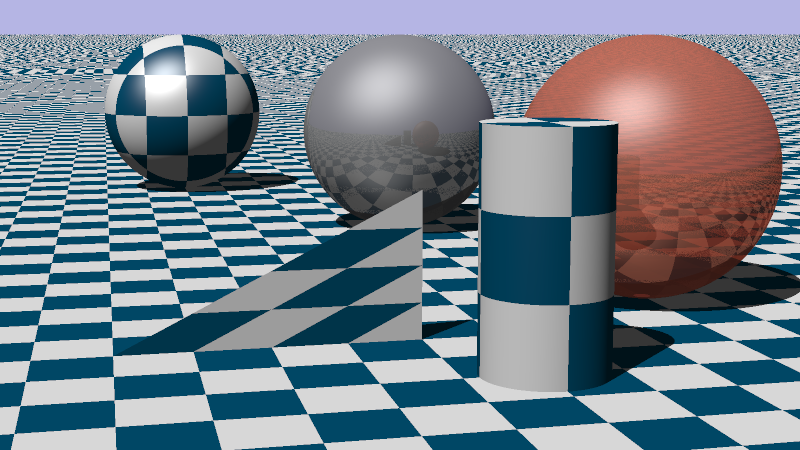
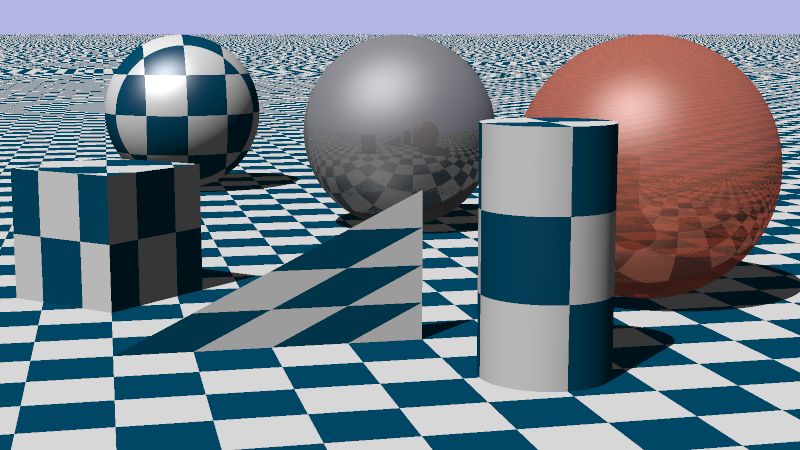
Add cuboids

Changed region(s): [[0.0, 0.3422, 0.3125, 0.7156]]

diff --git a/src/geometry/cuboid.cpp b/src/geometry/cuboid.cpp
@@ -1,0 +1,111 @@
+#include "geometry/cuboid.h"
+#include <algorithm>
+#include <cmath>
+#include <limits>
+
+Cuboid::Cuboid(Point3 center, Vec3 u, Vec3 v,
+               double width, double height, double depth,
+               std::shared_ptr<Material> mat)
+    : center(center)
+    , half_w(width  / 2.0)
+    , half_h(height / 2.0)
+    , half_d(depth  / 2.0)
+    , mat(std::move(mat))
+{
+    u_axis = unit_vector(u);
+    w_axis = unit_vector(cross(u_axis, v));   // perpendicular to both
+    v_axis = cross(w_axis, u_axis);           // recomputed to guarantee orthogonality
+}
+
+bool Cuboid::hit(const Ray& r, double t_min, double t_max, HitRecord& rec) const {
+    // Project ray into the cuboid's local frame.
+    Vec3 oc = r.origin() - center;
+    double ox = dot(oc, u_axis), oy = dot(oc, v_axis), oz = dot(oc, w_axis);
+    double dx = dot(r.direction(), u_axis);
+    double dy = dot(r.direction(), v_axis);
+    double dz = dot(r.direction(), w_axis);
+
+    const double inf = std::numeric_limits<double>::infinity();
+
+    // Per-axis slab intervals and the axis index that produced t_near / t_far.
+    double t_near = -inf, t_far = inf;
+    int    near_axis = 0, far_axis = 0;
+
+    auto process_axis = [&](double o, double d, double half, int axis) -> bool {
+        if (std::abs(d) < 1e-10) {
+            // Ray parallel to slab — check if origin is inside.
+            if (std::abs(o) > half) return false;
+        } else {
+            double inv = 1.0 / d;
+            double t1  = (-half - o) * inv;
+            double t2  = ( half - o) * inv;
+            if (t1 > t2) std::swap(t1, t2);
+
+            if (t1 > t_near) { t_near = t1; near_axis = axis; }
+            if (t2 < t_far)  { t_far  = t2; far_axis  = axis; }
+
+            if (t_far < t_near) return false;
+        }
+        return true;
+    };
+
+    if (!process_axis(ox, dx, half_w, 0)) return false;
+    if (!process_axis(oy, dy, half_h, 1)) return false;
+    if (!process_axis(oz, dz, half_d, 2)) return false;
+
+    // Pick the first t inside [t_min, t_max].
+    double t;
+    int    hit_axis;
+    bool   entering;   // true → hit near face, false → hit far face (ray starts inside)
+    if (t_near >= t_min && t_near <= t_max) {
+        t = t_near; hit_axis = near_axis; entering = true;
+    } else if (t_far >= t_min && t_far <= t_max) {
+        t = t_far;  hit_axis = far_axis;  entering = false;
+    } else {
+        return false;
+    }
+
+    // Outward normal: for a near-face hit the ray travels in the +d direction,
+    // so the outward normal points opposite to d.  For a far-face hit it is the
+    // same side as d (ray exits through the face it faces).
+    const Vec3 axes[3] = { u_axis, v_axis, w_axis };
+    double      dirs[3] = { dx, dy, dz };
+    Vec3 outward;
+    if (entering)
+        outward = (dirs[hit_axis] > 0.0) ? -axes[hit_axis] : axes[hit_axis];
+    else
+        outward = (dirs[hit_axis] > 0.0) ?  axes[hit_axis] : -axes[hit_axis];
+
+    rec.t = t;
+    rec.p = r.at(t);
+    rec.set_face_normal(r, outward);
+    rec.mat = mat;
+    return true;
+}
+
+bool Cuboid::bounding_box(AABB& output_box) const {
+    // Expand all 8 corners in world space and take the min/max envelope.
+    Point3 mn( std::numeric_limits<double>::infinity(),
+               std::numeric_limits<double>::infinity(),
+               std::numeric_limits<double>::infinity());
+    Point3 mx(-std::numeric_limits<double>::infinity(),
+              -std::numeric_limits<double>::infinity(),
+              -std::numeric_limits<double>::infinity());
+
+    for (int i = -1; i <= 1; i += 2)
+    for (int j = -1; j <= 1; j += 2)
+    for (int k = -1; k <= 1; k += 2) {
+        Point3 corner = center
+            + (i * half_w) * u_axis
+            + (j * half_h) * v_axis
+            + (k * half_d) * w_axis;
+
+        for (int a = 0; a < 3; a++) {
+            if (corner[a] < mn[a]) mn[a] = corner[a];
+            if (corner[a] > mx[a]) mx[a] = corner[a];
+        }
+    }
+
+    output_box = AABB(mn, mx);
+    return true;
+}

diff --git a/src/scene/scene_loader.cpp b/src/scene/scene_loader.cpp
@@ -4,6 +4,7 @@
 #include "geometry/plane.h"
 #include "geometry/cylinder.h"
 #include "geometry/triangle.h"
+#include "geometry/cuboid.h"
 #include "materials/opaque_material.h"
 #include "textures/checker.h"
 #include "textures/uv_checker.h"
@@ -140,6 +141,17 @@ SceneConfig load_scene(const std::string& path) {
             if (!materials.count(mat_name))
                 throw std::runtime_error("Unknown material: " + mat_name);
             cfg.world.add(std::make_shared<Triangle>(tp0, tp1, tp2, materials[mat_name]));
+        } else if (type == "cuboid") {
+            Point3 cub_center = parse_color(obj.at("center"));
+            Vec3   cub_u      = parse_color(obj.at("u"));
+            Vec3   cub_v      = parse_color(obj.at("v"));
+            double cub_w      = obj.at("width").get<double>();
+            double cub_h      = obj.at("height").get<double>();
+            double cub_d      = obj.at("depth").get<double>();
+            std::string mat_name = obj.at("material").get<std::string>();
+            if (!materials.count(mat_name))
+                throw std::runtime_error("Unknown material: " + mat_name);
+            cfg.world.add(std::make_shared<Cuboid>(cub_center, cub_u, cub_v, cub_w, cub_h, cub_d, materials[mat_name]));
         } else {
             throw std::runtime_error("Unknown object type: " + type);
         }

diff --git a/src/geometry/cuboid.h b/src/geometry/cuboid.h
@@ -1,0 +1,25 @@
+#pragma once
+#include "geometry/hittable.h"
+#include <memory>
+
+class Cuboid : public Hittable {
+public:
+    Point3                    center;
+    Vec3                      u_axis;   // unit vector along width
+    Vec3                      v_axis;   // unit vector along height
+    Vec3                      w_axis;   // unit vector along depth  (= cross(u, v))
+    double                    half_w;   // width  / 2
+    double                    half_h;   // height / 2
+    double                    half_d;   // depth  / 2
+    std::shared_ptr<Material> mat;
+
+    // u and v define the orientation; w is derived as cross(u, v).
+    // u and v are orthogonalised internally — they do not need to be
+    // perfectly perpendicular in the JSON, but they must not be parallel.
+    Cuboid(Point3 center, Vec3 u, Vec3 v,
+           double width, double height, double depth,
+           std::shared_ptr<Material> mat);
+
+    bool hit(const Ray& r, double t_min, double t_max, HitRecord& rec) const override;
+    bool bounding_box(AABB& output_box) const override;
+};

diff --git a/README.md b/README.md
@@ -14,7 +14,7 @@ A C++17 raytracer built from scratch, featuring a Phong direct-lighting model, p
 - **Anti-aliasing** — 4-sample fixed grid per pixel
 - **Gamma correction** — γ = 2.0
 - **Output** — PPM image format
-- **Primitives** — Spheres, planes, finite capped cylinders (arbitrary axis orientation), and triangles
+- **Primitives** — Spheres, planes, finite capped cylinders (arbitrary axis orientation), triangles, and arbitrarily-oriented cuboids
 - **JSON scenes** — Scene, camera, materials, and objects defined in a JSON file; no recompile needed to change the scene
 
 ## Project Structure
@@ -39,6 +39,7 @@ raytracer/
 │   │   ├── aabb.h           # Axis-aligned bounding box
 │   │   ├── hittable.h       # Abstract Hittable + HitRecord
 │   │   ├── hittable_list.h/.cpp
+│   │   ├── cuboid.h/.cpp
 │   │   ├── cylinder.h/.cpp
 │   │   ├── plane.h/.cpp
 │   │   ├── sphere.h/.cpp
@@ -149,6 +150,7 @@ All scene data lives in `scenes/default.json`. Edit it and re-run — no recompi
 | `"plane"` | `"point": [x, y, z]`, `"normal": [x, y, z]`, `"material"` |
 | `"cylinder"` | `"center": [x, y, z]`, `"axis": [x, y, z]`, `"radius"`, `"height"`, `"material"` |
 | `"triangle"` | `"p0": [x, y, z]`, `"p1": [x, y, z]`, `"p2": [x, y, z]`, `"material"` |
+| `"cuboid"` | `"center": [x, y, z]`, `"u": [x, y, z]`, `"v": [x, y, z]`, `"width"`, `"height"`, `"depth"`, `"material"` |
 
 ### Texture types
 
